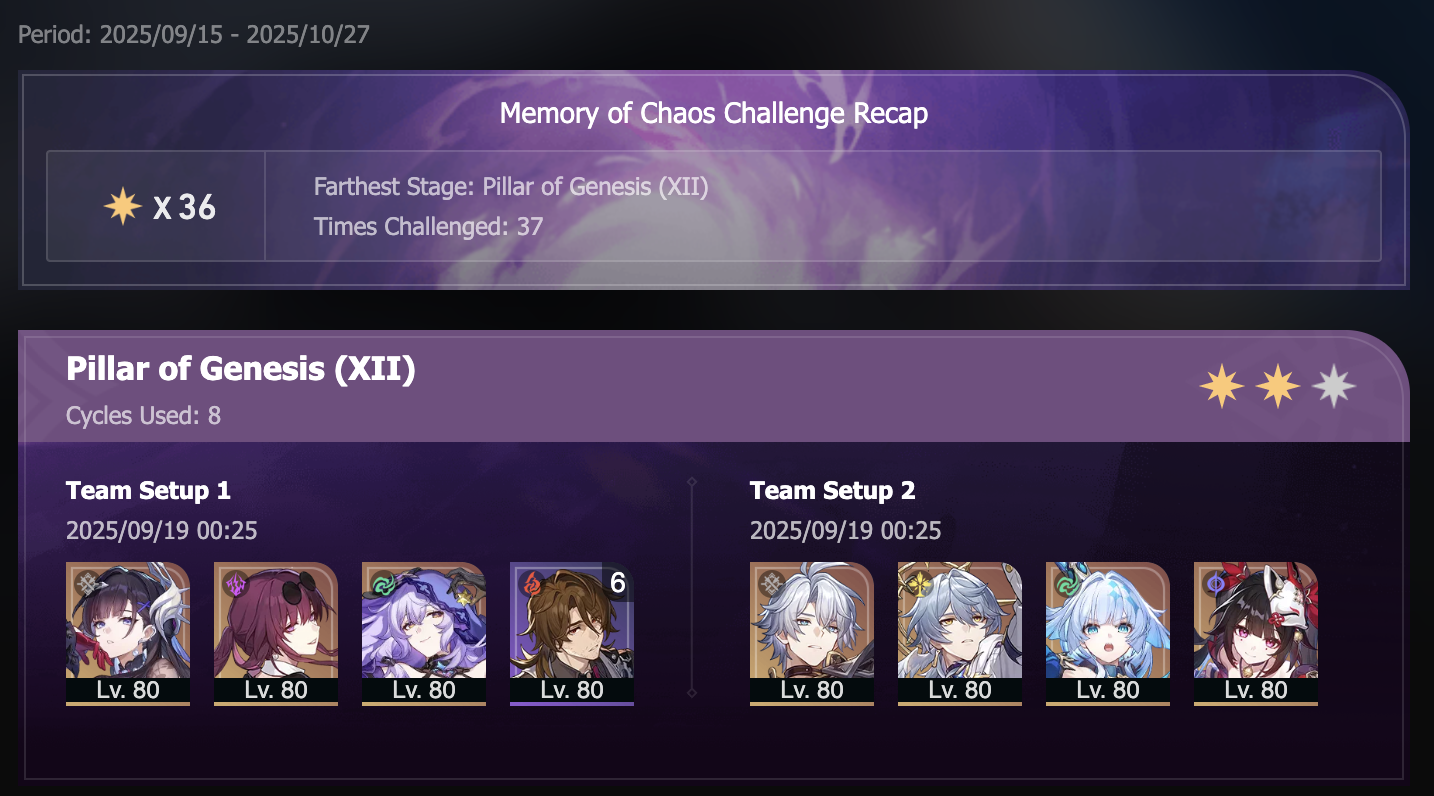
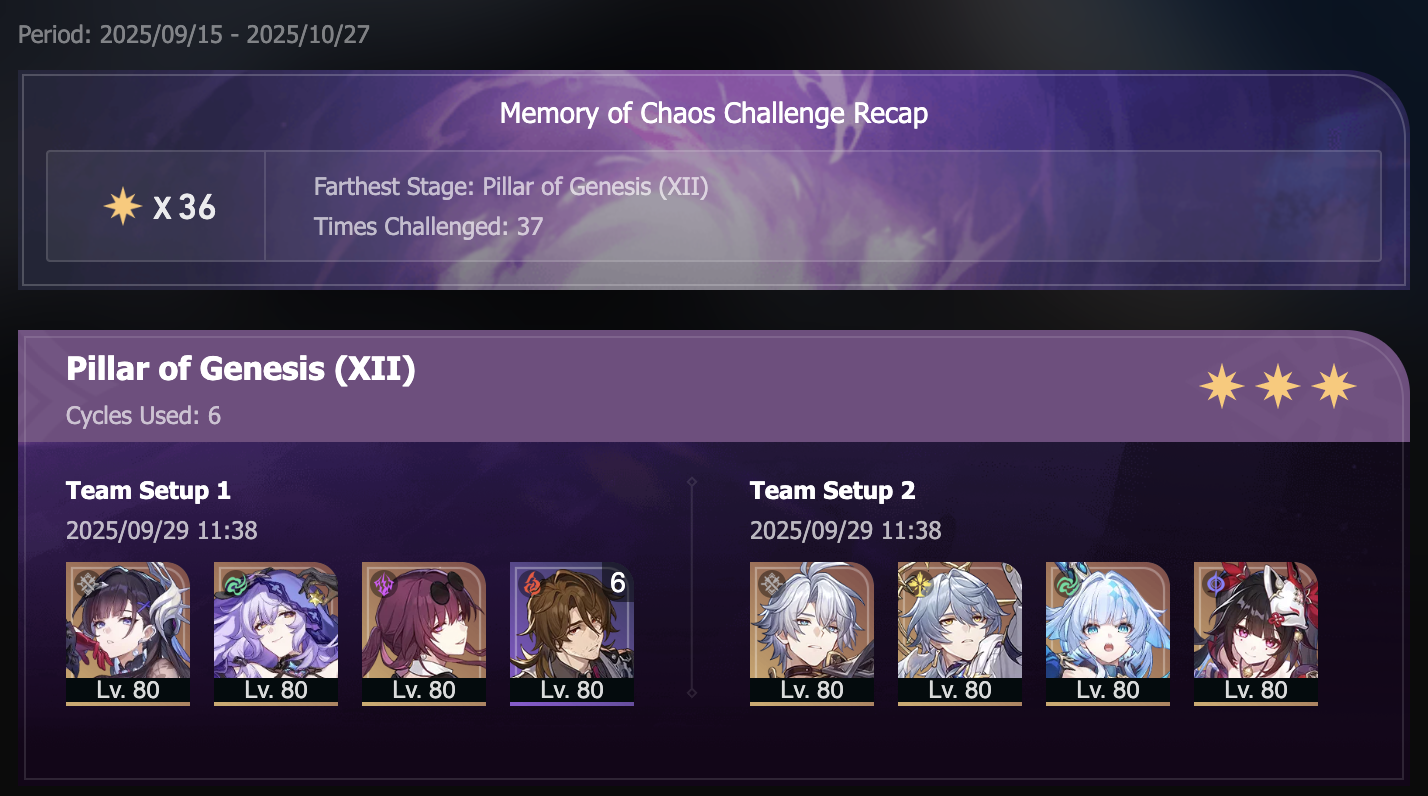
🖋 obsidian → merge #182
* PUSH NOTE : 09-25.md

* PUSH NOTE : 09-25.md

* PUSH ATTACHMENT : 09-25_moc.png

* PUSH NOTE : 09-25.md

* PUSH NOTE : 5.7.md

* PUSH NOTE : 5.8.md

* PUSH NOTE : weeknotes one.md

* PUSH NOTE : opening-mail.md

diff --git a/src/shelf/games/hsr/forgotten-hall/09-25/index.md b/src/shelf/games/hsr/forgotten-hall/09-25/index.md
@@ -10,8 +10,6 @@ publish: true
 ## overview
 ![Pillar of Genesis](./photos/09-25_moc.png)
 
-(I promise I did actually get three stars here, but the graphic hasn't updated yet.)
-
 I spent some time fixing my DoT builds for the first half, and now that team does really well. Very fun to play, too. And yeah, you need quite a few limited five-stars, but this team also holds up really well without any eidolons or signature light cones. 
 
 Playing Phainon against Zandar was hilarious — I just set him up to do a bunch of counters, and then he gets to do two big nukes in a row with Cerydra's help. He was also basically permanently in his ult, so I got away with going sustainless pretty easily.

diff --git a/src/shelf/games/hsr/pure-fiction/09-25/index.md b/src/shelf/games/hsr/pure-fiction/09-25/index.md
@@ -9,3 +9,5 @@ publish: true
 ---
 ## overview
 ![Pure Fiction](./photos/09-25_pf.png)
+
+The sustainless Phainon just goes crazy. I still like the Therta + Anaxa combo, too. Also, note to self: I gotta bring back Argenti for Pure Fiction at some point.

diff --git a/src/shelf/games/hsr/apocalyptic-shadow/09-25/index.md b/src/shelf/games/hsr/apocalyptic-shadow/09-25/index.md
@@ -9,3 +9,5 @@ publish: true
 ---
 ## overview
 ![Apocalyptic Shadow](./photos/09-25_shadow.png)
+
+This was the easiest time I've ever had with Apocalyptic Shadow. Phainon + DoT teams go brrr.
